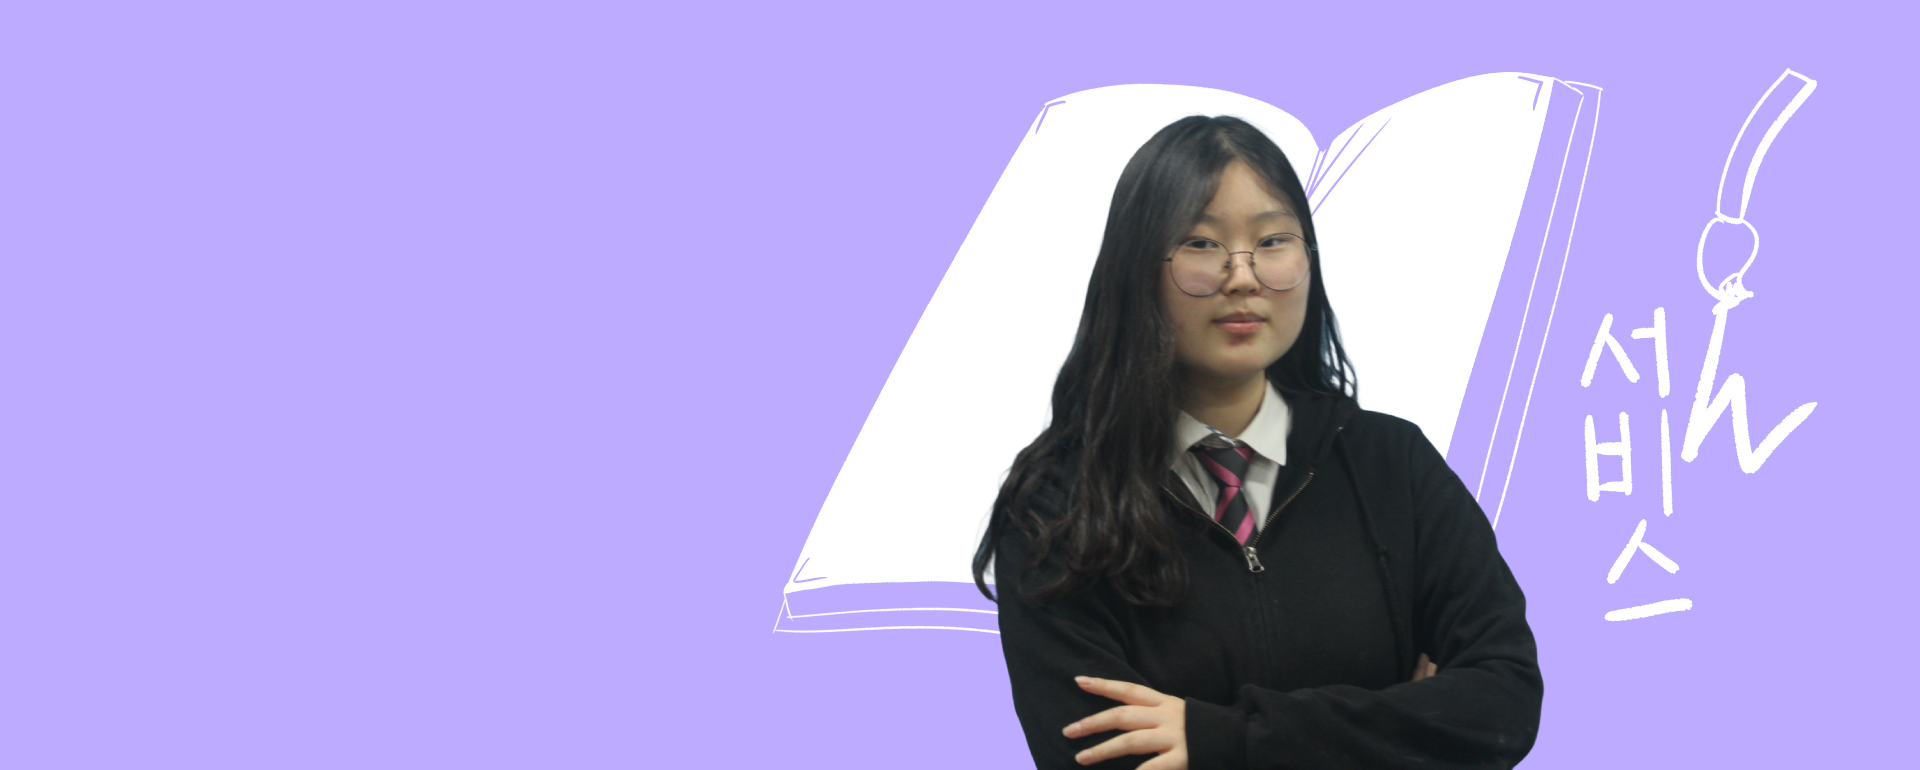
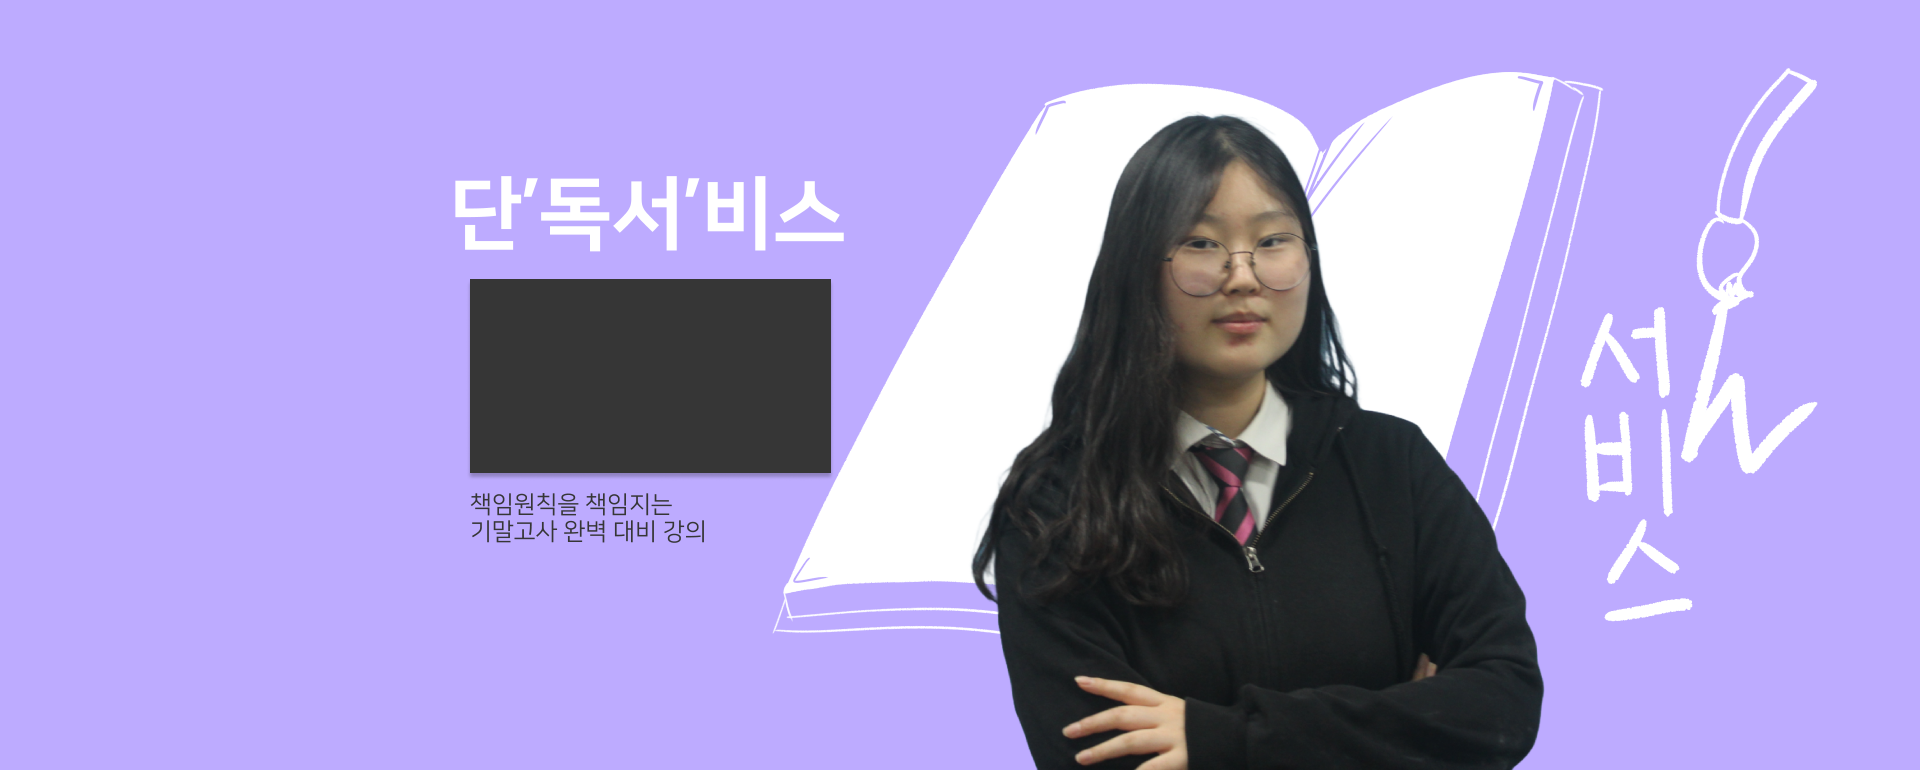
[Feat] NoTime

Changed region(s): [[0.2188, 0.2182, 0.4375, 0.7169]]

diff --git a/src/components/List.jsx b/src/components/List.jsx
@@ -1,5 +1,6 @@
 import React from "react";
-import elipse from '../assets/Ellipse 19.svg'
+import elipse from '../assets/Ellipse 19.svg';
+import Miri from '../assets/miri.png';
 import './List.scss';
 
 
@@ -18,9 +19,7 @@ function List() {
             </div>
           </div>
           <div className="list-explain-frame">
-            <div className="list-explain-TestVideo">
-              <div className="list-explain-TestVideo-text">미리보기</div>
-            </div>
+            <img src={Miri} alt="Miri" className="Miri"></img>
             <div className="list-explain-discription">
               <div className="list-explain-discription-text">책임원칙을 책임지는 기말고사 완벽 대비 강의 <br></br>[범위:불법행위를 억제할 수 있는 책임원칙]</div>
             </div>

diff --git a/src/components/List.scss b/src/components/List.scss
@@ -5,13 +5,13 @@
 
 .list-frame{
   display: flex;
-  padding: 21px 32px 48px 32px;
+  height: 400px;
+  padding: 21px 32px 41px 32px;
   flex-direction: column;
   align-items: flex-start;
   gap: 15px;
-  flex: 1 0 0;
   border-radius: 20px;
-  background: #FFF;
+  background: var(--White, #FFF);
   box-shadow: 0px 4px 4px 0px rgba(0, 0, 0, 0.25);
 }
 
@@ -101,17 +101,6 @@
   align-self: stretch;
   border-radius: 20px;
   background: #363636;
-
-  .list-explain-TestVideo-text{
-    width: 138px;
-    height: 44px;
-    color: #FFF;
-    font-family: Inter;
-    font-size: 36px;
-    font-style: normal;
-    font-weight: 400;
-    line-height: normal;
-  }
 }
 
 .list-explain-discription{

diff --git a/src/components/LisujinMain.jsx b/src/components/LisujinMain.jsx
@@ -5,16 +5,7 @@ import './LisujinMain.scss';
 function LisujinMain() {
   return (
     <div className="LisujinMain-frame">
-        <div className="LisujinMain-Picture">
-            <img src={MainLisujin} alt="MainLisujin" className="MainLisujin"></img>
-        </div>
-        <div className="LisujinMain-Title">
-            <div className="MainTitle">단독서비스</div>
-            <div className="Explain">
-                s
-                <div className="MainExplain">책임원칙을 책임지는 기말고사 완벽 대비 강의</div>
-            </div>
-        </div>
+      <img src={MainLisujin} alt="MainLisujin" className="MainLisujin"></img>
     </div>
   );
 }

diff --git a/src/pages/TestPage/lisujin.jsx b/src/pages/TestPage/lisujin.jsx
@@ -1,10 +1,12 @@
 import LogoFrame from "../../components/LogoFrame";
 import List from "../../components/List";
 import LisujinMain from "../../components/LisujinMain";
+import './lisujin.scss';
+
 
 function lisujin() {
   return (
-    <div>
+    <div className="lisujin-highest-main">
       <LogoFrame></LogoFrame>
       <LisujinMain></LisujinMain>
       <List></List>

diff --git a/src/components/LogoFrame.jsx b/src/components/LogoFrame.jsx
@@ -1,6 +1,6 @@
 import React from "react";
-import icon from '../assets/icon.png'
-import Instagram from '../assets/Instagram.png'
+import icon from '../assets/icon.png';
+import Instagram from '../assets/Instagram.png';
 import './LogoFrame.scss';
 
 function LogoFrame() {

diff --git a/src/components/LisujinMain.scss b/src/components/LisujinMain.scss
@@ -1,0 +1,9 @@
+.LisujinMain-frame{
+    display: flex;
+    flex-direction: column;
+    align-items: center;
+    gap: 10px;
+    align-self: stretch;
+    background: #BDABFF;
+    box-shadow: 0px 4px 4px 0px rgba(0, 0, 0, 0.25);
+}

diff --git a/src/pages/TestPage/lisujin.scss b/src/pages/TestPage/lisujin.scss
@@ -1,0 +1,10 @@
+.lisujin-highest-main{
+    display: inline-flex;
+    height: 1642px;
+    display: flex;
+    flex-direction: column;
+    align-items: center;
+    gap: 47px;
+    flex: 1 0 0;
+    background: #DBDBDB;
+}
